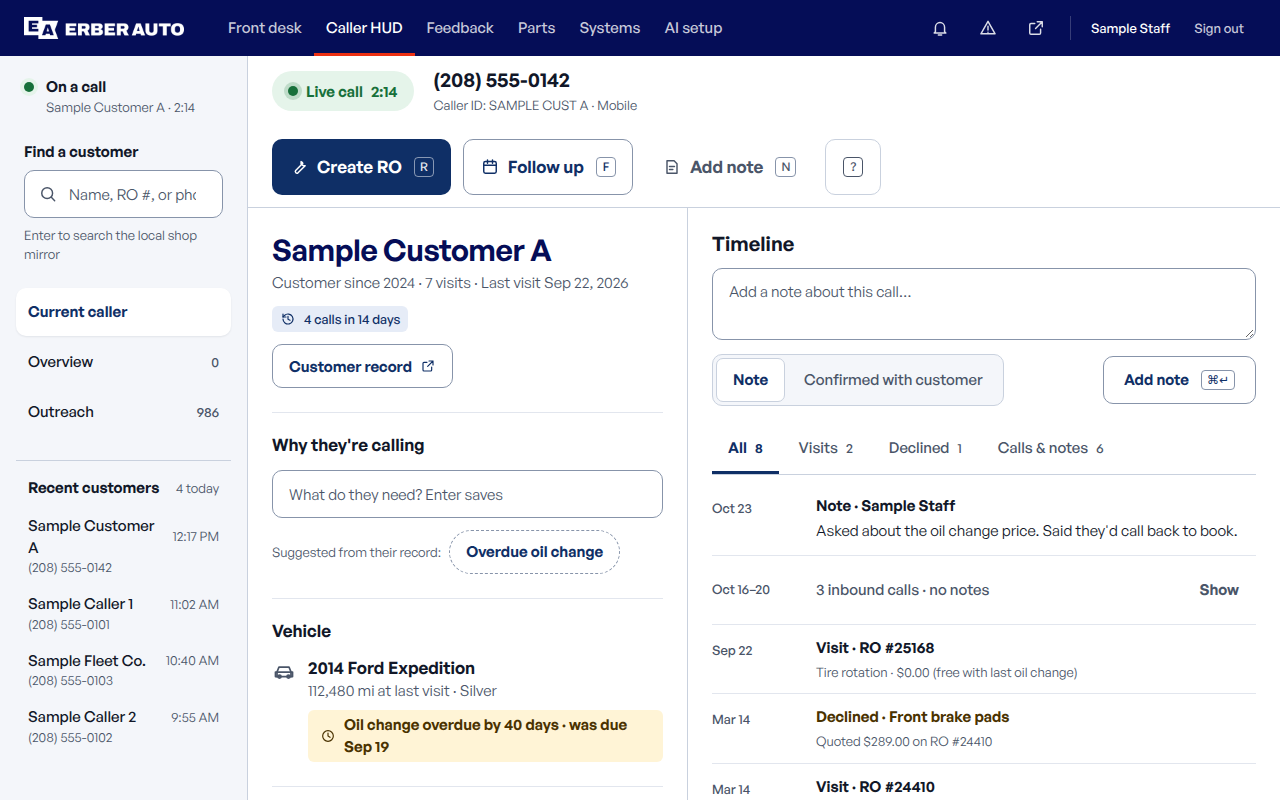
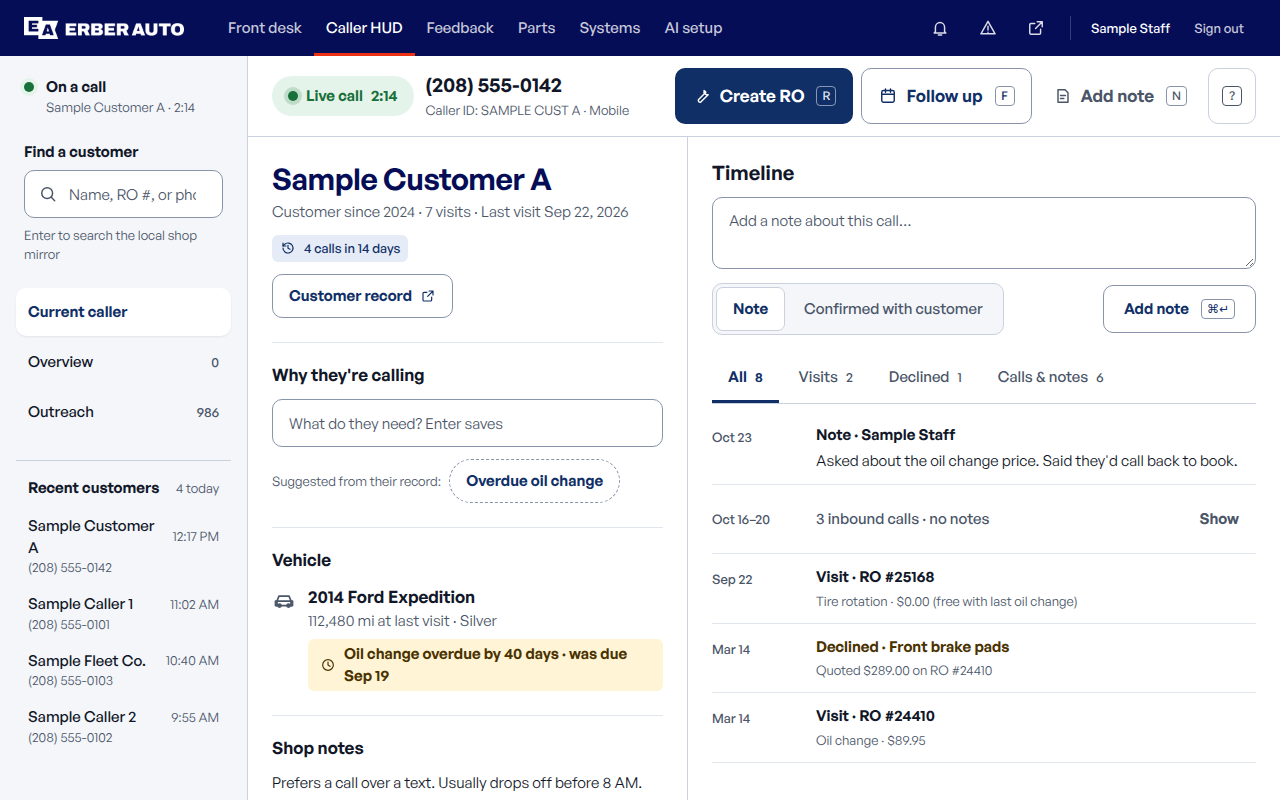
Caller HUD hill-climb round 7: one-row call bar at 1280

diff --git a/caller-hud-review/hud.css b/caller-hud-review/hud.css
@@ -148,8 +148,12 @@
   .tool { font-size: 0; gap: 0; width: 44px; justify-content: center; }
   .tool-quiet { font-size: var(--text-xs); width: auto; }
   .topnav a { white-space: nowrap; padding: 0 var(--space-3); }
-  .callbar { padding: var(--space-3) var(--space-6); flex-wrap: wrap; }
+  .callbar { padding: var(--space-3) var(--space-6); flex-wrap: wrap; gap: var(--space-4); }
+  .call-id { gap: var(--space-3); }
+  .call-actions { gap: var(--space-2); }
   .call-actions .btn-lg { padding: 0 var(--space-4); }
+  .call-actions .btn-ghost { padding: 0 var(--space-3); }
+  .keys-btn { width: var(--tap-min); }
   .cust, .tl { padding-left: var(--space-6); padding-right: var(--space-6); }
 }
 @media (max-width: 1023px) {
